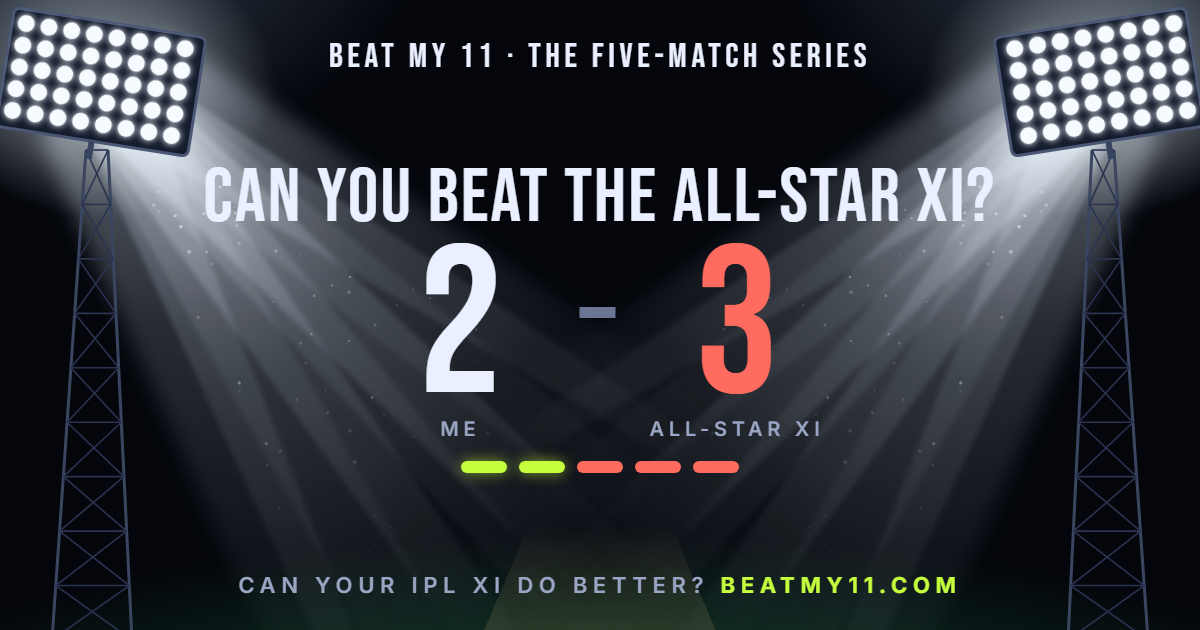
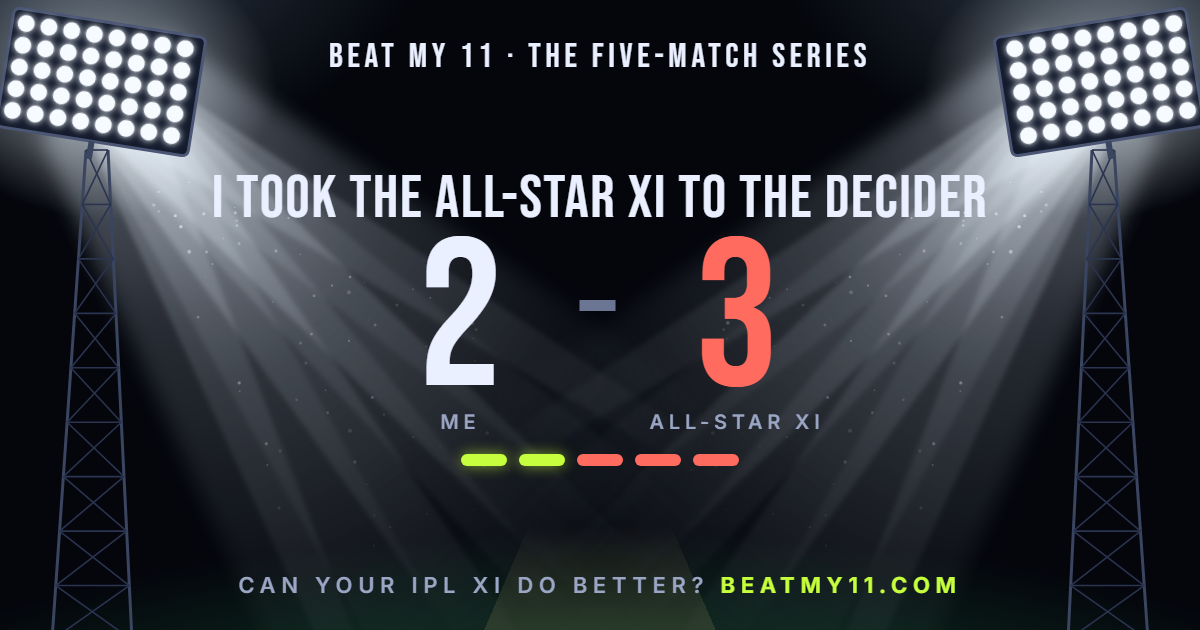
Share wording for a lost series: a dare, never 'I lost'
One source for the card headline, the share message and the /r pages. A 2-3 reads
'I took the World XI to the decider'; 1-4 and 0-5 read 'Can you beat the World XI?'.
PROVISIONAL wording. The four 2-3 link-preview images are redrawn.

diff --git a/src/lib/share-results.ts b/src/lib/share-results.ts
@@ -24,13 +24,31 @@ export interface ShareResult {
   challenge: string;
 }
 
-/** Wording for a format's share pages; the Test game's is the default. */
-export interface ShareWords { opponent: string; xiNoun: string }
+/** Wording for a format's share pages; the Test game's is the default. `matchNoun`: "Test",
+ *  "ODI", "T20I", "match". */
+export interface ShareWords { opponent: string; xiNoun: string; matchNoun?: string }
 
 /** The seven share results worded for another format (opponent name and "IPL XI" etc.). */
 export function shareResultsFor(words: ShareWords): ShareResult[] {
-  const swap = (t: string) => t.replace(/all-time Test XI/g, words.xiNoun).replace(/World XI/g, words.opponent);
+  const swap = (t: string) =>
+    t.replace(/all-time Test XI/g, words.xiNoun).replace(/World XI/g, words.opponent).replace(/fifth Test/g, `fifth ${words.matchNoun ?? 'match'}`);
   return SHARE_RESULTS.map((r) => ({ ...r, imageHeadline: swap(r.imageHeadline), title: swap(r.title), challenge: swap(r.challenge) }));
+}
+
+/**
+ * The message sent with a shared result. A lost series is worded as something a player would
+ * still send (owner, 2026-10-02: nobody shares "I lost"); the scoreline is always in it, so it
+ * stays true. A 2–3 is always level going into the fifth match (testOrder in series.ts).
+ * PROVISIONAL wording.
+ */
+export function shareTextFor(user: number, house: number, words: ShareWords): string {
+  const score = `${user}–${house}`;
+  const { xiNoun: xi, opponent: opp } = words;
+  if (user === 5) return `I whitewashed the ${opp} 5–0 with my ${xi} 🏏 Can you?`;
+  if (user > house) return `My ${xi} beat the ${opp} ${score} 🏏 Can yours?`;
+  if (user === house) return `My ${xi} drew ${score} with the ${opp} 🏏 Can you beat it?`;
+  if (house === 3) return `My ${xi} took the ${opp} to the fifth ${words.matchNoun ?? 'match'}: ${score} 🏏 Can yours do better?`;
+  return `My ${xi} went ${score} with the ${opp} 🏏 Can yours do better?`;
 }
 
 function describe(user: number, house: number): Pick<ShareResult, 'imageHeadline' | 'title' | 'challenge'> {
@@ -53,9 +71,16 @@ function describe(user: number, house: number): Pick<ShareResult, 'imageHeadline
       title: `I drew with the World XI ${score}`,
       challenge: `Their all-time Test XI drew the series ${score}. Can yours win it?`,
     };
+  // Lost series (owner, 2026-10-02): worded as a dare, never "I lost". PROVISIONAL wording.
+  if (house === 3)
+    return {
+      imageHeadline: 'I took the World XI to the decider',
+      title: `I took the World XI to the fifth Test: ${score}. Can you beat it?`,
+      challenge: `Their all-time Test XI was level 2–2 with the World XI going into the fifth Test, and the World XI took the series ${house}–${user}. Can yours win it?`,
+    };
   return {
     imageHeadline: 'Can you beat the World XI?',
-    title: `The World XI beat me ${house}–${user}. Can you beat it?`,
+    title: `My XI went ${score} with the World XI. Can yours do better?`,
     challenge: `The World XI won the series ${house}–${user}. Can your all-time Test XI do better?`,
   };
 }

diff --git a/tests/share.test.ts b/tests/share.test.ts
@@ -1,7 +1,8 @@
 /**
  * Tests for the share links (src/lib/share-results.ts).
  */
-import { SHARE_RESULTS, encodeXI, decodeXI, type SharedPick } from '../src/lib/share-results';
+import { SHARE_RESULTS, shareResultsFor, shareTextFor, encodeXI, decodeXI, type SharedPick } from '../src/lib/share-results';
+import { dailyShareText } from '../src/lib/daily';
 import { OUTCOME_BANDS } from '../src/lib/series';
 
 const OUTCOME_SLUGS = OUTCOME_BANDS.map((b) => `${b.user}-${b.house}`);
@@ -14,6 +15,30 @@ const ok = (cond: boolean, name: string, extra?: unknown) => {
 
 ok(SHARE_RESULTS.length === 7, 'one share result per scoreline');
 ok(SHARE_RESULTS.map((r) => r.slug).join() === OUTCOME_SLUGS.join(), 'slugs follow the outcome bands');
+
+// A lost series is never worded "I lost" (owner, 2026-10-02), in any format, anywhere it is shared.
+const FORMAT_WORDS = [
+  { opponent: 'World XI', xiNoun: 'all-time Test XI', matchNoun: 'Test' },
+  { opponent: 'World XI', xiNoun: 'ODI XI', matchNoun: 'ODI' },
+  { opponent: 'World XI', xiNoun: 'T20I XI', matchNoun: 'T20I' },
+  { opponent: 'All-Star XI', xiNoun: 'IPL XI', matchNoun: 'match' },
+];
+for (const w of FORMAT_WORDS) {
+  const results = shareResultsFor(w);
+  for (const r of results) {
+    const all = [r.imageHeadline, r.title, r.challenge, shareTextFor(r.user, r.house, w), dailyShareText('2026-10-02', r, 1, w)].join(' | ');
+    ok(!/\b(lost|lose|beaten|beat me)\b/i.test([r.imageHeadline, r.title, shareTextFor(r.user, r.house, w), dailyShareText('2026-10-02', r, 1, w)].join(' | ')), `${w.xiNoun} ${r.slug}: no "lost" in what the player sends`, all);
+    ok(all.includes(w.opponent) && !(w.opponent !== 'World XI' && all.includes('World XI')), `${w.xiNoun} ${r.slug}: names this format's opponent`, all);
+    // Truthful: the message and the title always carry the real scoreline.
+    const score = `${r.user}–${r.house}`;
+    ok(shareTextFor(r.user, r.house, w).includes(score) && dailyShareText('2026-10-02', r, 1, w).includes(score), `${w.xiNoun} ${r.slug}: the scoreline is in the message`);
+    ok(r.title.includes(score), `${w.xiNoun} ${r.slug}: the scoreline is in the link title`, r.title);
+  }
+  const close = results.find((r) => r.slug === '2-3')!;
+  ok(close.imageHeadline === `I took the ${w.opponent} to the decider`, `${w.xiNoun}: 2–3 headline`, close.imageHeadline);
+  ok(close.title.includes(`fifth ${w.matchNoun}`) && shareTextFor(2, 3, w).includes(`fifth ${w.matchNoun}`), `${w.xiNoun}: 2–3 names the fifth ${w.matchNoun}`, close.title);
+  for (const slug of ['1-4', '0-5']) ok(results.find((r) => r.slug === slug)!.imageHeadline === `Can you beat the ${w.opponent}?`, `${w.xiNoun}: ${slug} headline is the dare`);
+}
 
 const xi: SharedPick[] = [
   { id: 'jack-hobbs', role: 'opener' },

diff --git a/scripts/gen-og-images.ts b/scripts/gen-og-images.ts
@@ -113,7 +113,7 @@ function resultImage(r: ShareResult, words = { series: 'The five-Test series', o
      <div class="foot">Can your ${words.xi} do better? <b>beatmy11.com</b></div>`,
     `
     .hero { position: absolute; inset: 96px 190px 88px; display: flex; flex-direction: column; align-items: center; justify-content: center; text-align: center; }
-    .head { max-width: 820px; white-space: nowrap; font-size: ${r.imageHeadline.length > 20 ? 76 : 88}px; line-height: 0.9; letter-spacing: 0.03em;
+    .head { max-width: 820px; white-space: nowrap; font-size: ${r.imageHeadline.length > 30 ? 60 : r.imageHeadline.length > 20 ? 76 : 88}px; line-height: 0.9; letter-spacing: 0.03em;
       color: ${won ? LIME : '#eaf0ff'}; ${won ? 'text-shadow: 0 0 44px rgba(198, 255, 61, 0.55);' : ''} }
     .score { display: flex; align-items: center; gap: 34px; margin-top: 6px; }
     .side { display: flex; flex-direction: column; align-items: center; min-width: 170px; }
@@ -150,7 +150,7 @@ async function main() {
   for (const f of [ODI_RESULT, T20I_RESULT, IPL_RESULT]) {
     mkdirSync(`public/og/${f.id}`, { recursive: true });
     const words = { series: f.eyebrow, opponent: f.opponent, xi: f.xiNoun };
-    for (const r of shareResultsFor({ opponent: f.opponent, xiNoun: f.xiNoun })) await shoot(resultImage(r, words), `public/og/${f.id}/${r.slug}.png`);
+    for (const r of shareResultsFor({ opponent: f.opponent, xiNoun: f.xiNoun, matchNoun: f.matchNoun })) await shoot(resultImage(r, words), `public/og/${f.id}/${r.slug}.png`);
   }
   await browser.close();
 }

diff --git a/src/lib/daily.ts b/src/lib/daily.ts
@@ -173,10 +173,13 @@ export function dailySpins(day: string, legendCombos: SpinCombo[], draftCombos: 
 
 export function dailyShareText(day: string, r: DailyResult, streak: number, words: { label?: string; xiNoun?: string; opponent?: string } = {}): string {
   const n = dayNumber(day);
-  const verdict = r.user === 5 ? 'whitewashed' : r.user > r.house ? 'beat' : r.user === r.house ? 'drew with' : 'lost to';
+  // A lost daily reads "went 1–4 with", never "lost to" (owner, 2026-10-02); the score is still there.
+  const score = `${r.user}–${r.house}`;
+  const opp = `the ${words.opponent ?? 'World XI'}`;
+  const verdict = r.user === 5 ? `whitewashed ${opp} ${score}` : r.user > r.house ? `beat ${opp} ${score}` : r.user === r.house ? `drew with ${opp} ${score}` : `went ${score} with ${opp}`;
   const fire = streak > 1 ? ` 🔥${streak}` : '';
   const label = words.label ? `${words.label} ` : '';
-  return `Beat My 11 ${label}Daily #${n}: my ${words.xiNoun ?? 'all-time Test XI'} ${verdict} the ${words.opponent ?? 'World XI'} ${r.user}–${r.house}${fire} 🏏 Same spins for everyone today. Can you do better?`;
+  return `Beat My 11 ${label}Daily #${n}: my ${words.xiNoun ?? 'all-time Test XI'} ${verdict}${fire} 🏏 Same spins for everyone today. Can you do better?`;
 }
 
 /**
